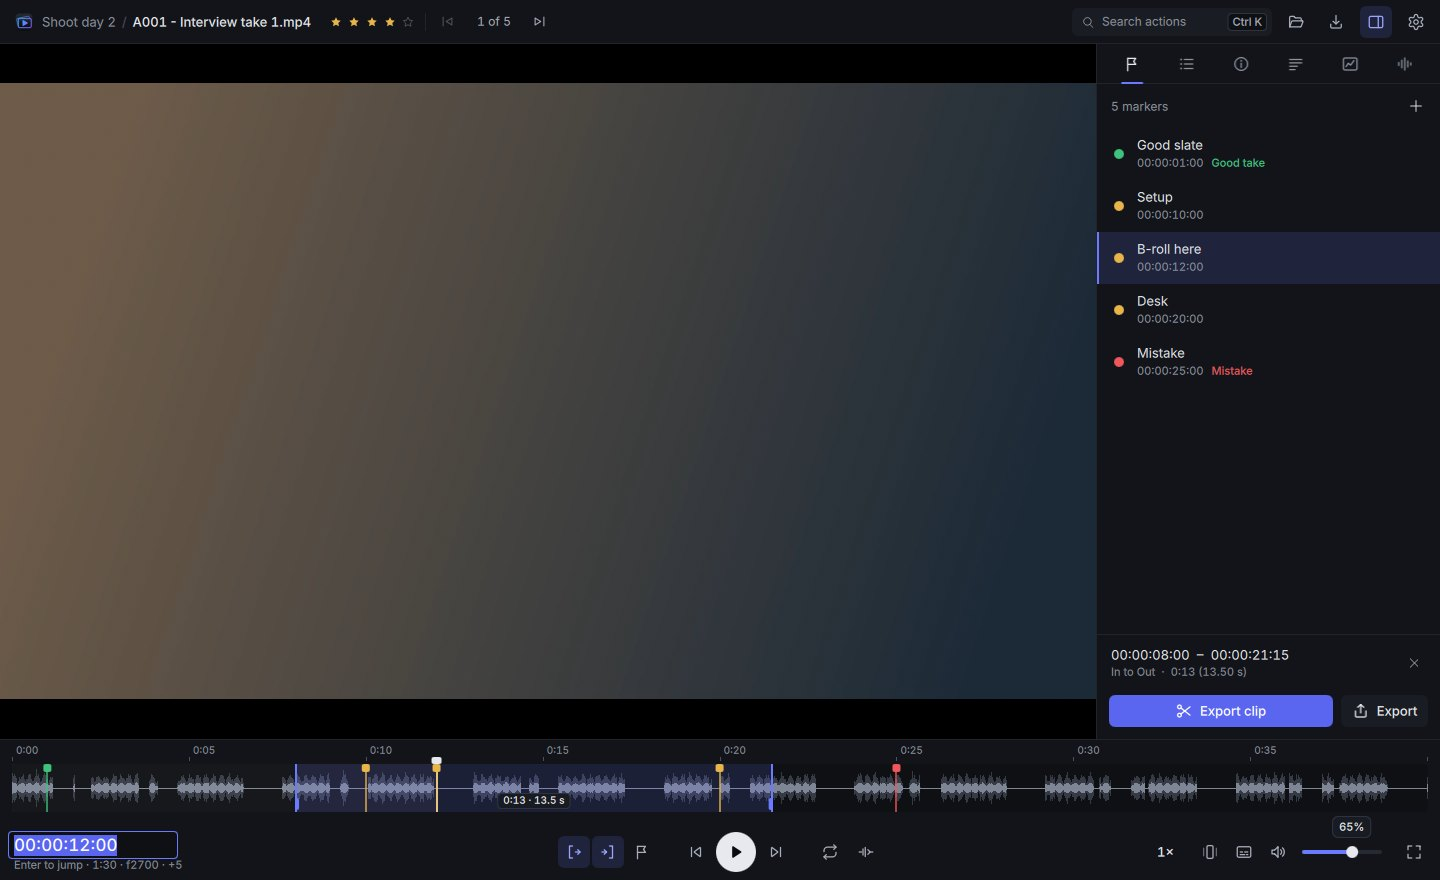
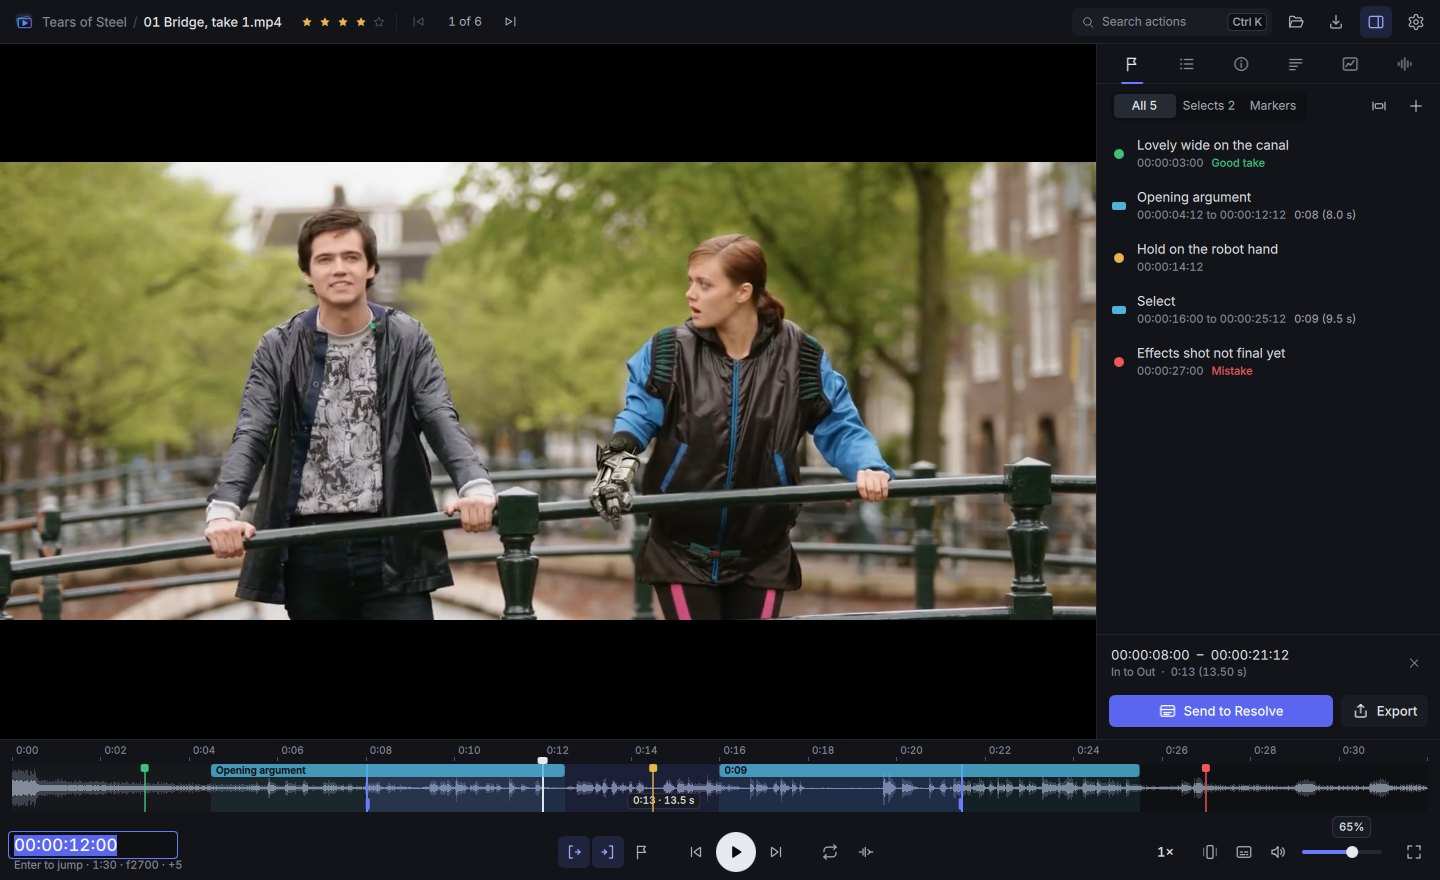
Real footage in the README screenshots, and fix half-speed tempo detection
- Screenshots now show dailies cut from Blender's open film Tears of Steel
  (CC BY 3.0), with markers, selects and transcripts that match the footage.
  The bridge scene's retakes drive the repeated-takes shot. Music tools use
  "Choice" by Admiral Bob (CC BY 3.0). Credits in docs/screenshots/CREDITS.md.
- Tempo detection: below 80 BPM, take the double tempo when its beat is at
  least 40% as strong (drum and bass at 136 read as 68 before). Selftest
  gains a 72 BPM track that must stay at 72.
- Changelog 1.1.46.

Claude-Session: https://claude.ai/code/session_01BthH7mAHztQDn2UAjmZ64J

diff --git a/src/main.cpp b/src/main.cpp
@@ -291,7 +291,7 @@ public:
                 qInfo("      %.1f BPM from %.2f s: found %.2f BPM, first beat %.3f s, confidence %.2f", bpm, start, found, first, conf);
                 return qAbs(found - bpm) < 0.06 && qAbs(first - start) < 0.025;
             };
-            return track(128, 0.3, false) && track(93, 0.5, true) && track(140, 0.1, true);
+            return track(128, 0.3, false) && track(93, 0.5, true) && track(140, 0.1, true) && track(72, 0.2, false);
         });
         step("exact seek to 2.0 s", [this] { m_mpv->seekTo(2.0); }, [this] { return qAbs(m_mpv->position() - 2.0) < 0.02; });
         step("frame step forward", [this] { m_f0 = m_mpv->frame(); m_mpv->stepFrame(1); }, [this] { return m_mpv->frame() == m_f0 + 1; });
@@ -513,15 +513,20 @@ public:
             { QStringLiteral("01-review"), [this] { call("showTab", 0); }, 6000 },
             { QStringLiteral("01a-markers-range"), [this] {
                   auto *app = AppController::instance();
+                  // README demo: dailies from Tears of Steel (CC BY 3.0, Blender Foundation), see docs/screenshots/CREDITS.md
                   if (app->markers()->count() == 0) {
-                      app->markers()->add(3.2, 1, QStringLiteral("Clean slate, strong start"));
-                      app->markers()->add(14.5, 0, QStringLiteral("Cut the cough here"));
-                      app->markers()->add(26.0, 2, QStringLiteral("Fluffed the line"));
+                      app->markers()->add(3.0, 1, QStringLiteral("Lovely wide on the canal"));
+                      app->markers()->add(14.5, 0, QStringLiteral("Hold on the robot hand"));
+                      app->markers()->add(27.0, 2, QStringLiteral("Effects shot not final yet"));
                   }
                   if (app->markers()->selectCount() == 0) {
-                      app->markers()->add(4.0, MarkerModel::Select, QStringLiteral("Intro, take 2"), 9.5);
-                      app->markers()->add(17.0, MarkerModel::Select, QString(), 24.0);
+                      app->markers()->add(4.5, MarkerModel::Select, QStringLiteral("Opening argument"), 12.5);
+                      app->markers()->add(16.0, MarkerModel::Select, QString(), 25.5);
                   }
+                  const QList<int> stars = { 4, 3, 5, 2, 4, 3 };
+                  const QStringList q = app->queue();
+                  for (int i = 0; i < q.size() && i < stars.size(); ++i)
+                      if (app->rating(q[i]) == 0) app->setRating(q[i], stars[i]);
                   app->setInPoint(8.0);
                   app->setOutPoint(21.5);
                   if (auto *mpv = m_win->findChild<MpvObject *>()) { mpv->setPaused(true); mpv->seekTo(12.0); }
@@ -575,7 +580,7 @@ public:
                   QTimer::singleShot(200, this, [this] {
                       if (QObject *p = m_win->findChild<QObject *>(QStringLiteral("transcriptPanel"))) {
                           p->setProperty("allClips", true);
-                          if (QObject *f = p->findChild<QObject *>(QStringLiteral("transcriptSearch"))) f->setProperty("text", QStringLiteral("desk"));
+                          if (QObject *f = p->findChild<QObject *>(QStringLiteral("transcriptSearch"))) f->setProperty("text", QStringLiteral("robot"));
                       }
                   });
               }, 1200 },
@@ -583,21 +588,20 @@ public:
                   if (QObject *p = m_win->findChild<QObject *>(QStringLiteral("transcriptPanel"))) p->setProperty("repeatsView", true);
               }, 800 },
             { QStringLiteral("13-thumbnails"), [this] { QMetaObject::invokeMethod(m_win, "openThumbnails"); }, 7000 },
-            { QStringLiteral("14-music"), [this] {
+            { QStringLiteral("14a-audio-file"), [this] {
                   QMetaObject::invokeMethod(m_win, "closeThumbnails");
                   if (QObject *p = m_win->findChild<QObject *>(QStringLiteral("transcriptPanel"))) p->setProperty("repeatsView", false);
-                  Tempo::instance()->setBpm(120, QStringLiteral("tapped"));
-                  Tempo::instance()->setFirstBeat(0.25);
+                  const QString audio = qEnvironmentVariable("SLATE_TOUR_AUDIO");
+                  if (!audio.isEmpty()) { App()->setSetting(QStringLiteral("spectrogram"), false); QMetaObject::invokeMethod(m_win, "openMedia", Q_ARG(QVariant, QVariant(audio))); }
+              }, 8000 },
+            { QStringLiteral("14-music"), [this] {
+                  if (Tempo::instance()->bpm() <= 0) { Tempo::instance()->setBpm(120, QStringLiteral("tapped")); Tempo::instance()->setFirstBeat(0.25); }
                   m_win->setProperty("beatGridOn", true);
                   call("showTab", 5);
                   if (QObject *tl = m_win->findChild<QObject *>(QStringLiteral("timeline"))) QMetaObject::invokeMethod(tl, "zoomBy", Q_ARG(QVariant, 0.45));
-              }, 1200 },
-            { QStringLiteral("14a-audio-file"), [this] {
-                  m_win->setProperty("beatGridOn", false);
-                  const QString audio = qEnvironmentVariable("SLATE_TOUR_AUDIO");
-                  if (!audio.isEmpty()) { App()->setSetting(QStringLiteral("spectrogram"), false); QMetaObject::invokeMethod(m_win, "openMedia", Q_ARG(QVariant, QVariant(audio))); }
-              }, 5000 },
+              }, 1500 },
             { QStringLiteral("14b-spectrogram"), [this] {
+                  m_win->setProperty("beatGridOn", false);
                   if (QObject *a = m_win->findChild<QObject *>(QStringLiteral("audioView"))) a->setProperty("spectrum", true);
               }, 4000 },
             { QStringLiteral("10-fullscreen"), [this] {
@@ -610,20 +614,36 @@ public:
 private:
     struct Shot { QString name; std::function<void()> act; int delay; };
     static AppController *App() { return AppController::instance(); }
-    // README screenshots of the transcript tools, without running whisper: two clips of a desk build.
+    // README screenshots of the transcript tools, without running whisper: the dialogue of the
+    // Tears of Steel dailies (from the film's own subtitles), including the bridge scene's retakes.
     void seedTranscripts()
     {
         const QStringList q = App()->queue();
         const QList<QList<QPair<double, QString>>> lines = {
-            { { 0.5, "Today we're going to build a desk from scratch." }, { 4.0, "Today we're going to build a, um" },
-              { 6.5, "Okay, today we're going to build a desk from scratch." }, { 11.0, "First, you need some decent plywood." },
-              { 15.5, "I got mine from the hardware store down the road." }, { 20.0, "Measure twice, cut once, as they say." },
-              { 24.5, "Measure twice and cut once, as they say." } },
-            { { 0.8, "Now the legs go on the desk frame." }, { 5.0, "These brackets keep the desk from wobbling." },
-              { 10.0, "Tighten every screw by hand first." }, { 15.0, "And that's the desk finished." } } };
+            { { 5.0, "You're a jerk, Thom." }, { 7.0, "Look Celia, we have to follow our passions." },
+              { 9.0, "You have your robotics, and I just want to be awesome in space." },
+              { 12.8, "Why don't you just admit that you're freaked out by my robot hand?" },
+              { 16.5, "I'm not freaked out by... it's... alright! Fine!" },
+              { 20.0, "I'm freaked out! I have nightmares that I'm being chased by these giant robotic claws of death." },
+              { 25.0, "Whatever, Thom. We're done." } },
+            { { 2.0, "And, action!" }, { 6.5, "Memory overwrite in progress!" }, { 9.0, "You're a jerk, Thom!" },
+              { 12.5, "Oh, sorry! Sorry." }, { 26.0, "Look Celia, we have to follow our passions." },
+              { 31.0, "You have your robotics, and I just want to be awesome in space." } },
+            { { 3.0, "Okay, they're coming. Two minutes left!" }, { 7.0, "Speed it up, Thom!" }, { 9.0, "Vivacissimo!" },
+              { 11.0, "Why don't you just admit that you're freaked out by my robot hand?" },
+              { 20.0, "Listen Celia, I was young..." }, { 25.0, "But that's no reason to destroy the world." },
+              { 29.0, "Why does he do this?" }, { 30.5, "We already tried that one!" }, { 35.5, "Abort!" }, { 37.0, "Cut!" } },
+            { { 3.0, "Are you ready?" }, { 5.0, "Of course you're ready, you're a rockstar." }, { 9.0, "How's it looking, Barley?" },
+              { 11.0, "We should have about ten minutes." }, { 13.5, "Well, that's perfect." },
+              { 15.5, "We're on in one! All systems go!" }, { 20.0, "Go! Go, go, go!" }, { 25.0, "I love it! Come on, go!" } },
+            { { 13.0, "Come on!" }, { 24.0, "Memory overwrite, ninety percent." }, { 26.0, "Captain! We have to abort!" } } };
         for (int i = 0; i < q.size() && i < lines.size(); ++i) {
             QJsonArray arr;
-            for (const auto &l : lines[i]) arr.append(QJsonObject{ { "start", l.first }, { "end", l.first + 3.2 }, { "text", l.second } });
+            const auto &clip = lines[i];
+            for (int k = 0; k < clip.size(); ++k) {
+                const double end = k + 1 < clip.size() ? qMin(clip[k + 1].first, clip[k].first + 4.0) : clip[k].first + 3.0;
+                arr.append(QJsonObject{ { "start", clip[k].first }, { "end", end }, { "text", clip[k].second } });
+            }
             const QString dir = ReviewStore::instance().root() + QStringLiteral("/transcripts");
             QDir().mkpath(dir);
             QFile f(dir + QLatin1Char('/') + ReviewStore::instance().fingerprintFor(q[i]) + QStringLiteral(".json"));

diff --git a/src/tempo.cpp b/src/tempo.cpp
@@ -132,6 +132,20 @@ double Tempo::detectTempo(const QVector<float> &mono, int sr, double *first, dou
         const double sc = r[l] * w;
         if (sc > bestScore) { bestScore = sc; bestLag = l; }
     }
+    // Half-time check: a slow answer whose double is also strongly periodic is usually the
+    // double (drum and bass at 136 shows up as 68, a 130 groove as 65). Below 80 BPM, take
+    // the faster tempo when its own beat is at least 40% as strong. Halve is a click away.
+    if (60.0 / (bestLag * hopSec) < 80.0) {
+        const double hl = bestLag / 2.0;
+        const int h0 = int(std::floor(hl));
+        const double fr = hl - h0;
+        const double rh = r[h0] * (1 - fr) + r[h0 + 1] * fr;
+        if (h0 >= lagMin - 1 && rh >= 0.4 * r[bestLag]) {
+            int l2 = h0;
+            for (int l = qMax(lagMin, h0 - 1); l <= h0 + 2; ++l) if (r[l] > r[l2]) l2 = l;
+            bestLag = l2;
+        }
+    }
     double lag = bestLag;
     {
         const double a = r[bestLag - 1], b = r[bestLag], c = r[bestLag + 1];

diff --git a/CHANGELOG.md b/CHANGELOG.md
@@ -4,6 +4,15 @@ Every push to `main` publishes a new release named `1.1.<build number>`, and ins
 update themselves to it. Builds that only fixed the CI are left out below.
 Downloads: [Releases](https://github.com/Aztr1xX/Slate/releases).
 
+## 1.1.46 (2026-11-16)
+- **Tempo detection no longer reads fast music at half speed.** Drum and bass at 136 BPM used to come out as
+  68, and a 130 BPM groove as 65. Slow answers whose double tempo is also clearly on the beat now take the
+  double. Genuinely slow songs stay as they are, and **½** is still there if you disagree.
+  Files detected before keep their old tempo until you press **↻** (detect again).
+- **New README screenshots** with real footage: dailies cut from Blender's open film *Tears of Steel*
+  (including its retakes of the bridge scene, which show off repeated-take detection) and a drum and bass
+  track for the music tools. Credits are in [docs/screenshots/CREDITS.md](docs/screenshots/CREDITS.md).
+
 ## 1.1.43 (2026-11-16)
 The biggest update so far: selects, a real Resolve timeline, transcripts across a whole shoot, thumbnails,
 music tools and a crash log.

diff --git a/README.md b/README.md
@@ -346,7 +346,7 @@ qml/               the interface (Main.qml plus one file per panel and control)
 assets/            app icon in SVG, PNG and ICO
 packaging/windows/ installer script, icon and version resource
 tests/             unit tests (Qt Test)
-docs/screenshots/  images used in this README
+docs/screenshots/  images used in this README (footage credits in CREDITS.md)
 ```
 
 ## Troubleshooting
@@ -377,3 +377,6 @@ Slate is a personal project. Copyright © 2026 Ryan Mendes, all rights reserved.
 Slate uses Qt and libmpv under the LGPL, and ships FFmpeg, whisper.cpp and yt-dlp as separate programs under
 their own licences. See [THIRD_PARTY_NOTICES.md](THIRD_PARTY_NOTICES.md) for details. See
 [CHANGELOG.md](CHANGELOG.md) for what changed in each version.
+
+The screenshots show *Tears of Steel* (CC BY 3.0, © Blender Foundation, [mango.blender.org](https://mango.blender.org))
+and "Choice" by Admiral Bob (CC BY 3.0). See [docs/screenshots/CREDITS.md](docs/screenshots/CREDITS.md).

diff --git a/docs/screenshots/CREDITS.md b/docs/screenshots/CREDITS.md
@@ -1,0 +1,14 @@
+# Screenshot credits
+
+The README screenshots use real, openly licensed footage and music, so they show Slate the way it's meant to be
+used: reviewing takes before an edit.
+
+- **Footage:** *Tears of Steel* (2012), © Blender Foundation, [mango.blender.org](https://mango.blender.org),
+  licensed under [CC BY 3.0](https://creativecommons.org/licenses/by/3.0/). The clips in the screenshots
+  ("Bridge, take 1" and so on) are short excerpts of the finished film, cropped to remove burned-in subtitles.
+  The transcript text is the film's own dialogue.
+- **Music:** "Choice" (drum and bass) by Admiral Bob (admiralbob77), licensed under
+  [CC BY 3.0](https://creativecommons.org/licenses/by/3.0/), from the librosa example audio collection.
+
+Markers, notes, ratings and selects in the screenshots were added for the demo. To make new screenshots, run
+`slate --tour <folder> "<clip>"` with `SLATE_TOUR_AUDIO` pointing at a music file (see `src/main.cpp`).
